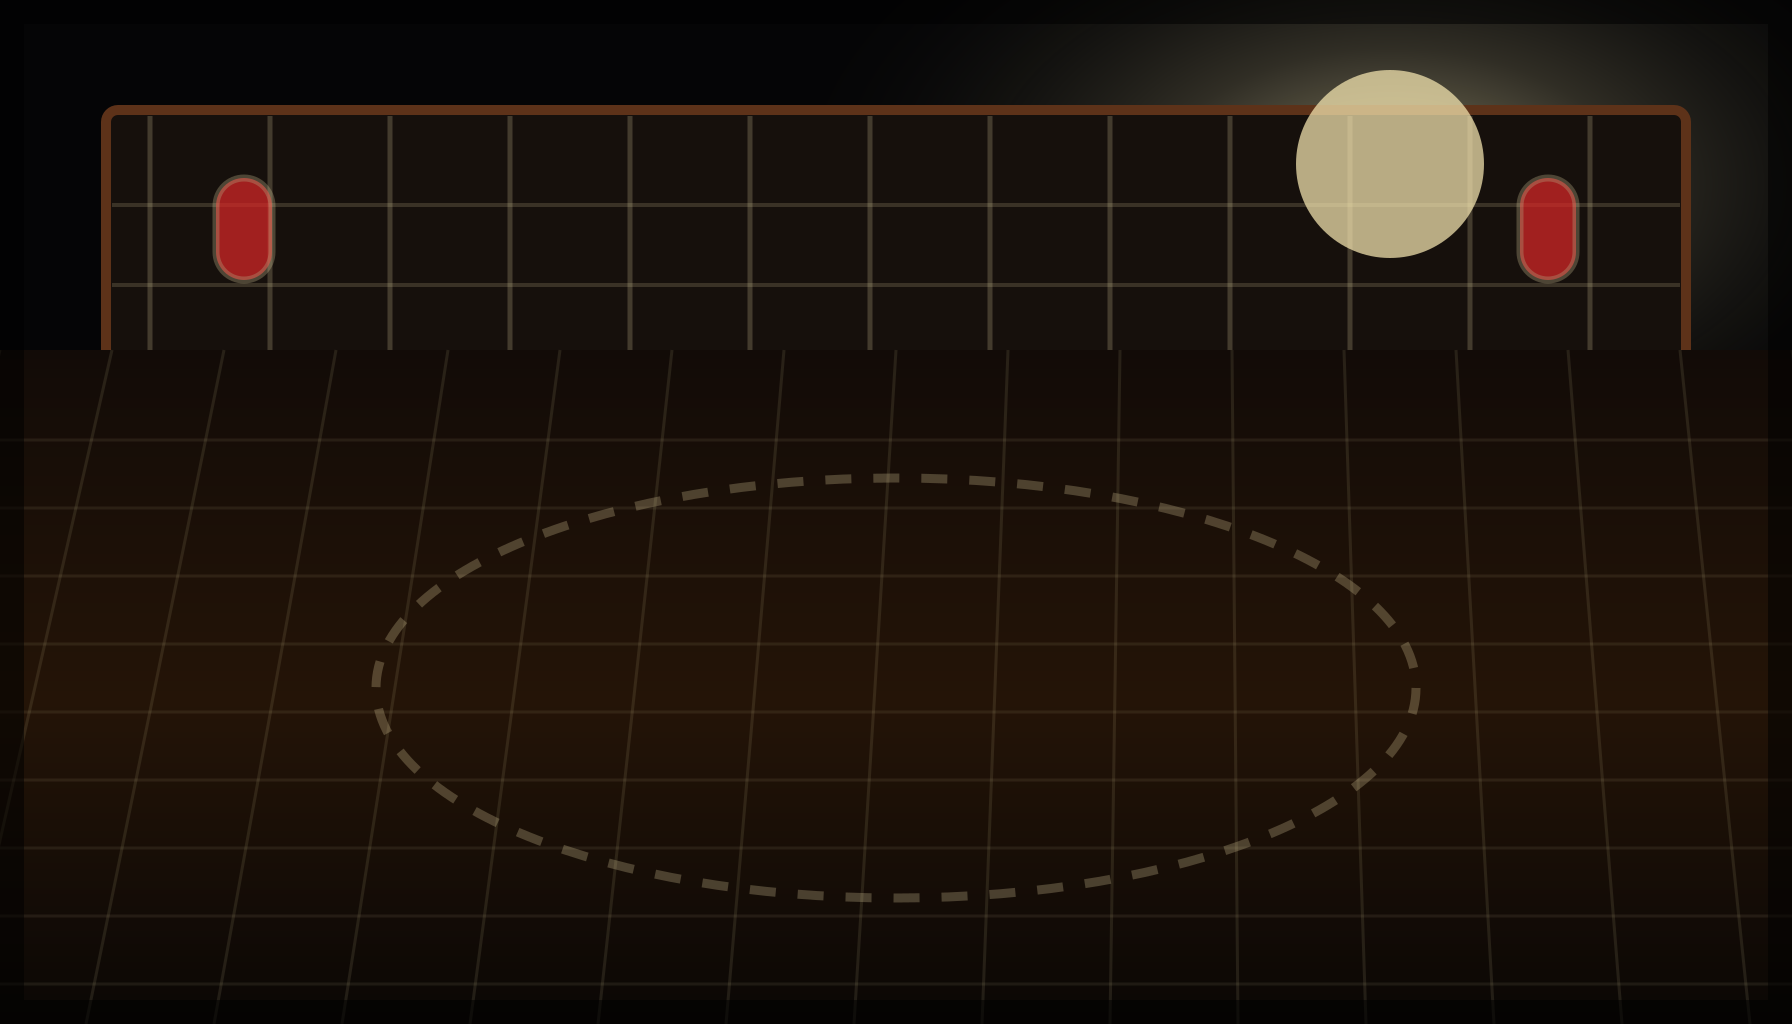
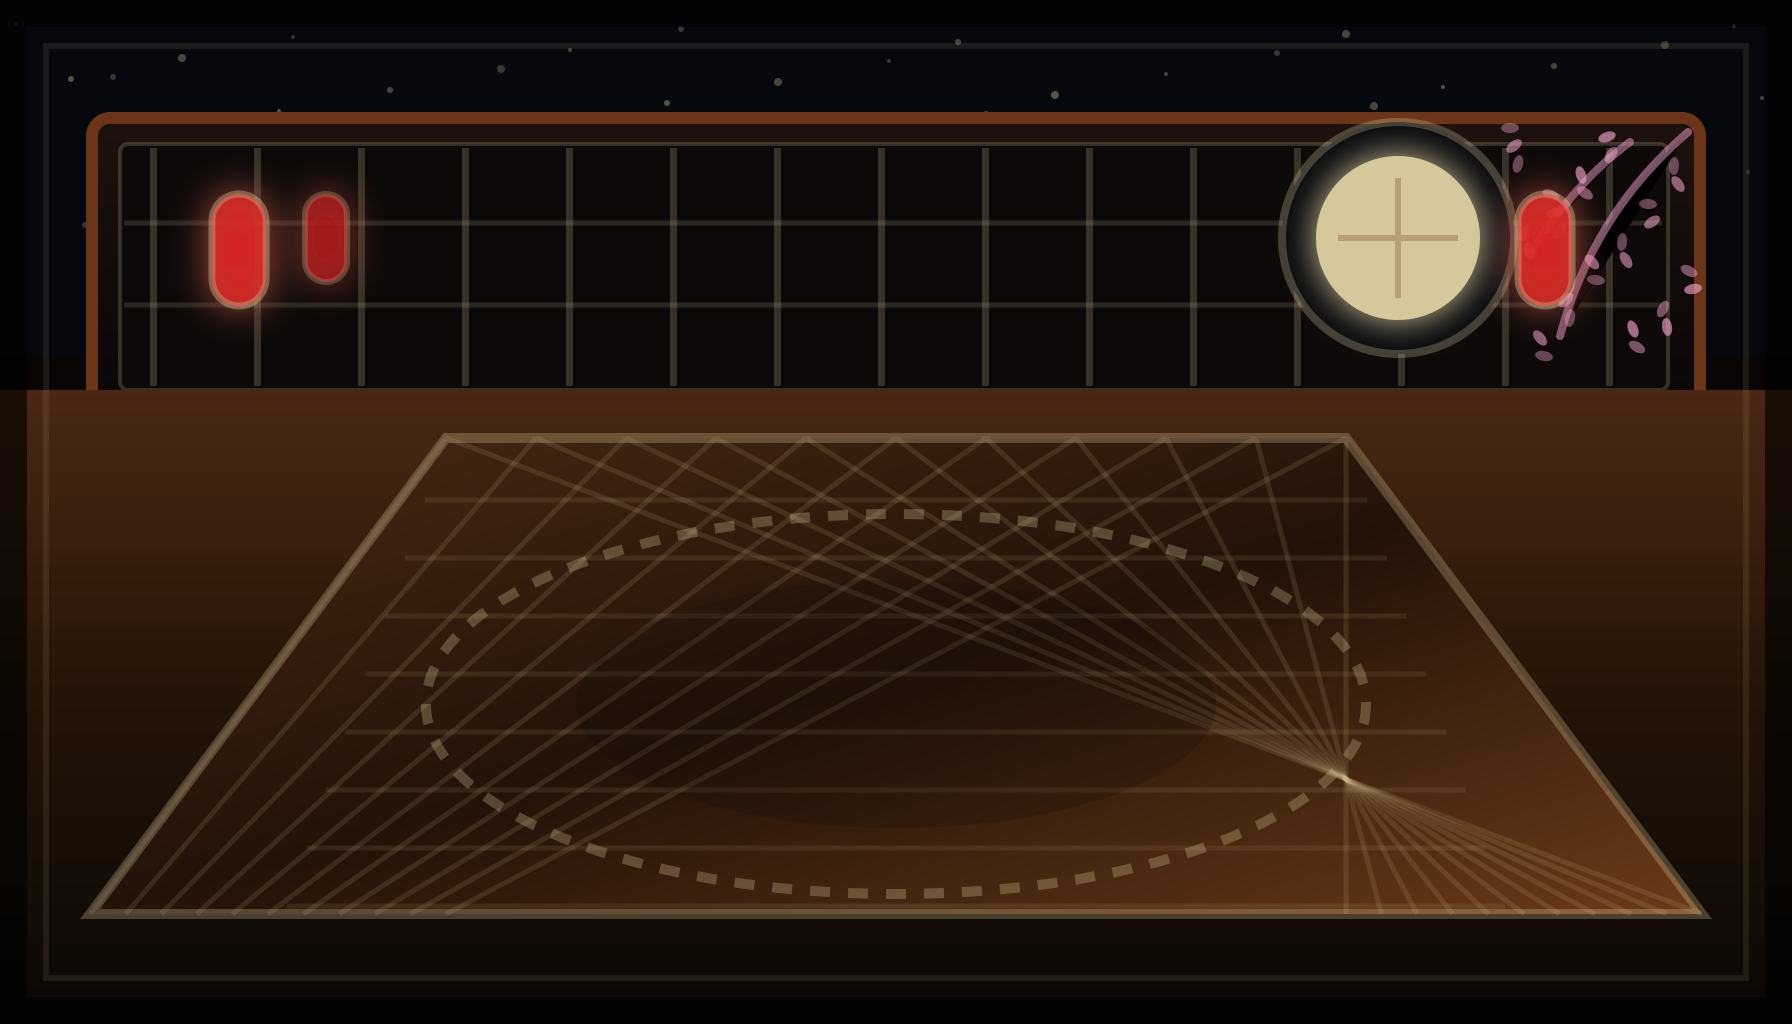
Polish live dojo game visuals

diff --git a/app/globals.css b/app/globals.css
@@ -2100,6 +2100,236 @@ textarea {
   }
 }
 
+/* Cinematic pixel-game composition pass */
+.live-world {
+  border-color: rgba(246, 231, 177, 0.18);
+  background:
+    radial-gradient(circle at 72% 5%, rgba(246, 231, 177, 0.18), transparent 22rem),
+    radial-gradient(circle at 24% 74%, rgba(220, 38, 38, 0.18), transparent 24rem),
+    #020203;
+}
+
+.live-world::after {
+  position: absolute;
+  inset: 0;
+  z-index: 50;
+  pointer-events: none;
+  content: "";
+  background:
+    linear-gradient(90deg, rgba(0, 0, 0, 0.72), transparent 18%, transparent 82%, rgba(0, 0, 0, 0.72)),
+    linear-gradient(180deg, rgba(255, 255, 255, 0.045), transparent 38%, rgba(0, 0, 0, 0.22)),
+    repeating-linear-gradient(0deg, rgba(255, 255, 255, 0.025) 0 1px, transparent 1px 5px);
+  mix-blend-mode: screen;
+  opacity: 0.42;
+}
+
+.live-world__header {
+  border-bottom-color: rgba(246, 231, 177, 0.18);
+  background:
+    linear-gradient(90deg, rgba(0, 0, 0, 0.82), rgba(0, 0, 0, 0.58)),
+    linear-gradient(180deg, rgba(246, 231, 177, 0.08), transparent);
+  box-shadow: 0 18px 46px rgba(0, 0, 0, 0.46);
+}
+
+.live-world__header h1 {
+  text-shadow:
+    0 2px 0 rgba(0, 0, 0, 0.9),
+    0 0 34px rgba(220, 38, 38, 0.18);
+}
+
+.live-world__body {
+  position: relative;
+  gap: 0;
+  background: #030202;
+}
+
+.dojo-event-log,
+.moon-panel {
+  position: relative;
+  z-index: 45;
+  margin: 16px;
+  min-height: calc(100% - 32px);
+  border: 1px solid rgba(246, 231, 177, 0.18);
+  border-radius: 8px;
+  background:
+    linear-gradient(180deg, rgba(246, 231, 177, 0.08), transparent 34%),
+    linear-gradient(135deg, rgba(12, 9, 9, 0.92), rgba(0, 0, 0, 0.72));
+  box-shadow:
+    0 24px 60px rgba(0, 0, 0, 0.48),
+    inset 0 0 0 1px rgba(255, 255, 255, 0.035);
+  backdrop-filter: blur(7px);
+}
+
+.dojo-event-log {
+  border-right: 1px solid rgba(246, 231, 177, 0.18);
+}
+
+.moon-panel {
+  border-left: 1px solid rgba(246, 231, 177, 0.18);
+}
+
+.dojo-game-board {
+  min-height: min(760px, calc(100vh - 216px));
+  border-inline: 1px solid rgba(246, 231, 177, 0.1);
+  box-shadow:
+    inset 0 0 0 1px rgba(246, 231, 177, 0.08),
+    inset 0 -120px 140px rgba(0, 0, 0, 0.35);
+}
+
+.dojo-game-board::before {
+  position: absolute;
+  inset: 10px;
+  z-index: 36;
+  pointer-events: none;
+  content: "";
+  border: 1px solid rgba(246, 231, 177, 0.12);
+  border-radius: 8px;
+  box-shadow:
+    inset 0 0 0 1px rgba(0, 0, 0, 0.5),
+    inset 0 0 70px rgba(0, 0, 0, 0.4);
+}
+
+.dojo-game-board::after {
+  z-index: 37;
+  background:
+    radial-gradient(circle at 50% 62%, transparent 0 32%, rgba(0, 0, 0, 0.28) 64%, rgba(0, 0, 0, 0.56) 100%),
+    linear-gradient(90deg, rgba(0, 0, 0, 0.56), transparent 18%, transparent 82%, rgba(0, 0, 0, 0.56)),
+    repeating-linear-gradient(0deg, rgba(255, 255, 255, 0.022) 0 1px, transparent 1px 4px);
+}
+
+.dojo-game-board__asset-bg {
+  transform: scale(1.02);
+  filter: saturate(1.14) contrast(1.08);
+}
+
+.dojo-game-board__fallback-bg {
+  opacity: 0;
+}
+
+.dojo-game-board__status {
+  left: 26px;
+  top: 24px;
+  border-color: rgba(246, 231, 177, 0.3);
+  background:
+    linear-gradient(90deg, rgba(220, 38, 38, 0.18), transparent 52%),
+    rgba(0, 0, 0, 0.72);
+}
+
+.dojo-game-board__path::before,
+.dojo-game-board__path i {
+  opacity: 0.45;
+}
+
+.dojo-game-board__stations span {
+  border-color: rgba(246, 231, 177, 0.3);
+  background: rgba(2, 2, 3, 0.76);
+  color: rgba(246, 231, 177, 0.88);
+}
+
+.dojo-game-board__scroll {
+  z-index: 20;
+  width: min(460px, 58%);
+  min-height: 124px;
+  padding: 24px 46px;
+  font-size: 12px;
+  line-height: 1.25;
+  filter: drop-shadow(0 18px 24px rgba(0, 0, 0, 0.5));
+}
+
+.dojo-game-board__scroll span {
+  max-width: 330px;
+}
+
+.dojo-sprite {
+  z-index: 28;
+  filter:
+    drop-shadow(0 18px 14px rgba(0, 0, 0, 0.58))
+    drop-shadow(0 0 10px rgba(246, 231, 177, 0.08));
+}
+
+.dojo-sprite[data-status="working"],
+.dojo-sprite[data-speaking="true"] {
+  filter:
+    drop-shadow(0 18px 14px rgba(0, 0, 0, 0.58))
+    drop-shadow(0 0 18px color-mix(in srgb, var(--sprite-accent), transparent 35%));
+}
+
+.dojo-sprite__plate {
+  border-color: rgba(246, 231, 177, 0.38);
+  background: rgba(0, 0, 0, 0.82);
+}
+
+.dojo-game-board__speech {
+  bottom: 96px;
+  border-color: rgba(246, 231, 177, 0.74);
+  background:
+    linear-gradient(90deg, rgba(220, 38, 38, 0.18), transparent 42%),
+    rgba(2, 2, 3, 0.9);
+}
+
+.live-world__controls {
+  position: fixed;
+  left: 50%;
+  bottom: 20px;
+  z-index: 90;
+  width: fit-content;
+  border: 1px solid rgba(246, 231, 177, 0.16);
+  border-radius: 8px;
+  background: rgba(0, 0, 0, 0.68);
+  padding: 10px;
+  box-shadow: 0 20px 50px rgba(0, 0, 0, 0.55);
+  transform: translateX(-50%);
+  backdrop-filter: blur(8px);
+}
+
+.live-world__controls button {
+  min-width: 180px;
+}
+
+.artifact-section {
+  margin-top: 10px;
+  opacity: 0.86;
+}
+
+@media (min-width: 1181px) {
+  .live-world__body {
+    grid-template-columns: 300px minmax(720px, 1fr) 300px;
+  }
+}
+
+@media (max-width: 1180px) {
+  .live-world__header {
+    padding: 14px 16px;
+  }
+
+  .live-world__header h1 {
+    font-size: clamp(28px, 5vw, 44px);
+  }
+
+  .live-world__header span {
+    margin-top: 7px;
+    font-size: 14px;
+  }
+
+  .dojo-progress span {
+    min-height: 46px;
+    padding: 7px 6px;
+  }
+
+  .dojo-event-log,
+  .moon-panel {
+    margin: 12px;
+  }
+
+  .live-world__controls {
+    position: fixed;
+    left: 50%;
+    bottom: 14px;
+    width: auto;
+    transform: translateX(-50%);
+  }
+}
+
 .pixel-dojo {
   position: relative;
   image-rendering: pixelated;

diff --git a/components/LiveDojo.tsx b/components/LiveDojo.tsx
@@ -26,23 +26,23 @@ type BoardStation = {
 };
 
 const stations: Record<string, BoardStation> = {
-  Scroll: { label: "Scroll", x: 50, y: 45 },
-  Moji: { label: "MOJI / Plan", x: 26, y: 42 },
-  Miji: { label: "MIJI / Build", x: 42, y: 67 },
-  Renegade: { label: "RENEGADE / Attack", x: 69, y: 43 },
-  Sensei: { label: "SENSEI / Review", x: 60, y: 68 },
-  Tester: { label: "TESTER / Deploy", x: 28, y: 75 },
-  Meowts: { label: "MEOWTS / Judge", x: 78, y: 74 },
-  Moon: { label: "Moonrise", x: 84, y: 24 }
+  Scroll: { label: "Scroll", x: 50, y: 47 },
+  Moji: { label: "MOJI / Plan", x: 31, y: 49 },
+  Miji: { label: "MIJI / Build", x: 41, y: 66 },
+  Renegade: { label: "RENEGADE / Attack", x: 67, y: 52 },
+  Sensei: { label: "SENSEI / Review", x: 59, y: 70 },
+  Tester: { label: "TESTER / Deploy", x: 31, y: 74 },
+  Meowts: { label: "MEOWTS / Judge", x: 77, y: 76 },
+  Moon: { label: "Moonrise", x: 84, y: 27 }
 };
 
 const idlePositions: Record<string, BoardStation> = {
-  Moji: { label: "Moji", x: 17, y: 77 },
-  Miji: { label: "Miji", x: 32, y: 79 },
-  Renegade: { label: "Renegade", x: 74, y: 77 },
-  Sensei: { label: "Sensei", x: 58, y: 80 },
-  Tester: { label: "Tester", x: 43, y: 82 },
-  Meowts: { label: "Meowts", x: 86, y: 81 }
+  Moji: { label: "Moji", x: 22, y: 79 },
+  Miji: { label: "Miji", x: 36, y: 82 },
+  Renegade: { label: "Renegade", x: 67, y: 81 },
+  Sensei: { label: "Sensei", x: 52, y: 83 },
+  Tester: { label: "Tester", x: 43, y: 84 },
+  Meowts: { label: "Meowts", x: 80, y: 84 }
 };
 
 export function LiveDojo({

diff --git a/components/DojoSprite.tsx b/components/DojoSprite.tsx
@@ -1,7 +1,6 @@
 "use client";
 
 import { motion } from "framer-motion";
-import { useState } from "react";
 import type { CSSProperties } from "react";
 import type { DojoAgent } from "@/lib/types";
 
@@ -32,9 +31,6 @@ export function DojoSprite({ agent, isSpeaking, x, y }: DojoSpriteProps) {
   const meta = spriteMeta[agent.name] ?? spriteMeta.Moji;
   const isWorking = agent.status === "working";
   const isComplete = agent.status === "complete";
-  const [sheetState, setSheetState] = useState<"loading" | "loaded" | "missing">(
-    "loading"
-  );
 
   return (
     <motion.div
@@ -47,7 +43,7 @@ export function DojoSprite({ agent, isSpeaking, x, y }: DojoSpriteProps) {
       className="dojo-sprite"
       data-complete={isComplete}
       data-speaking={isSpeaking}
-      data-sheet={sheetState === "loaded"}
+      data-sheet={false}
       data-status={agent.status}
       data-variant={meta.variant}
       style={
@@ -68,21 +64,6 @@ export function DojoSprite({ agent, isSpeaking, x, y }: DojoSpriteProps) {
     >
       <div className="dojo-sprite__shadow" />
       <div aria-hidden="true" className="dojo-sprite__image">
-        {sheetState !== "missing" ? (
-          <span className="dojo-sprite__sheet-frame">
-            <img
-              alt=""
-              onError={() => setSheetState("missing")}
-              onLoad={() => setSheetState("loaded")}
-              src="/assets/dojo/spritesheet.png"
-              style={
-                {
-                  "--sheet-index": meta.sheetIndex
-                } as CSSProperties
-              }
-            />
-          </span>
-        ) : null}
         <span className="dojo-sprite__head" />
         <span className="dojo-sprite__mask" />
         <span className="dojo-sprite__body" />